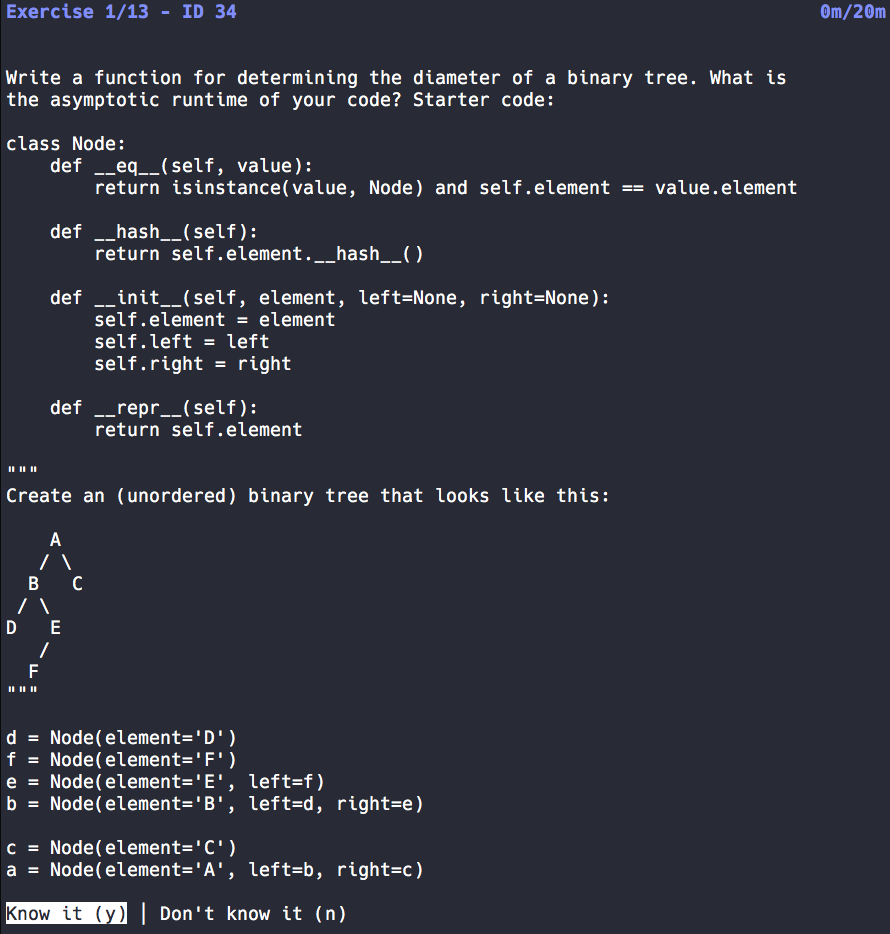
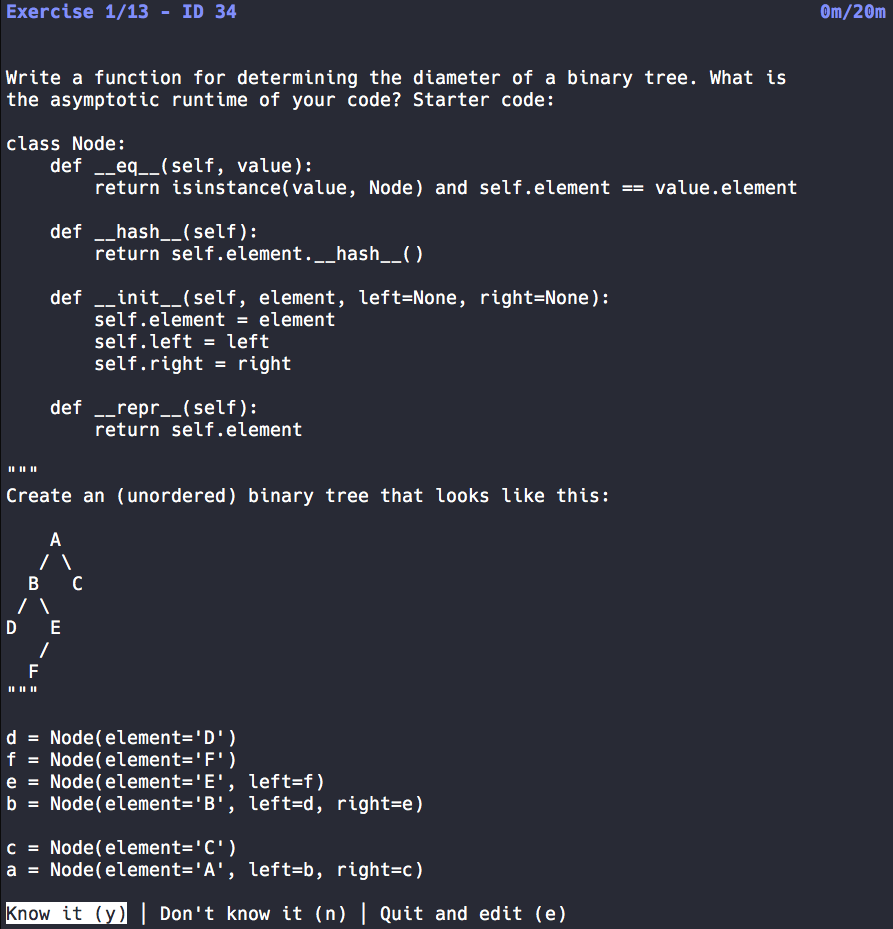
Add simple 'quit and edit' feature, update UI screenshot

diff --git a/src/main.rs b/src/main.rs
@@ -468,6 +468,7 @@ fn review_command(time_box_minutes: Option<i64>) {
         let options = [
             HorizontalMenuOption::new("Know it", 'y'),
             HorizontalMenuOption::new("Don't know it", 'n'),
+            HorizontalMenuOption::new("Quit and edit", 'e'),
         ];
 
         match horizontal_menu_select(&options) {
@@ -475,14 +476,33 @@ fn review_command(time_box_minutes: Option<i64>) {
                 Some(selected_index) => {
                     if selected_index == 0 {
                         confirm_exercise_answer(exercise, &service);
-                    } else {
+                    } else if selected_index == 1 {
                         print!("\n\n");
                         print_labeled_field("Reference", &exercise.reference_answer);
                         print_labeled_field("Source", &exercise.source);
 
                         exercise.update_repetition_interval(false);
                         if let Err(e) = exercise.update(&service) {
-                            eprintln!("Error saving exercise: {}", e);
+                            eprintln!("\n\nError saving exercise: {}", e);
+                        }
+                    } else {
+                        // quit and edit
+                        if !&exercise.id.is_some() {
+                            eprintln!("\n\nExercise has no ID, can't export!");
+                            std::process::exit(1);
+                        }
+
+                        let output_name  = format!("edited_exercise_{}.yaml", &exercise.id.unwrap());
+                        let output_path = Path::new(&output_name[..]);
+                        match &exercise.yaml_export(output_path) {
+                            Ok(_) => { 
+                                println!("\n\nExported exercise to file '{}' for editing. Exiting.", output_path.display());
+                                std::process::exit(0);
+                            },
+                            Err(e) => {
+                                eprintln!("\n\nError exporting exercise: {}", e);
+                                std::process::exit(1);
+                            }
                         }
                     }
                     print_next_exercise_input();

diff --git a/README.md b/README.md
@@ -106,6 +106,19 @@ I hope you find this application useful. Please <a
 href="https://github.com/fearofcode/arete">file an issue</a> if you have any
 questions or problems.
 
+## Missing and awkward features
+
+Since Arete is intended to be simple and command-line only, editing is
+slightly awkward. You export a file to a YAML file, make edits, then import
+it in. It's not great, but it works and is pretty simple. It has the very
+nice benefit of letting you edit in your favorite editor! You can export an
+exercise to edit while reviewing by selecting `Quit and edit` or invoke the
+application with `arete edit <id> <output_path>`.
+
+Deletion is not currently supported. I haven't needed to delete an exercise
+yet. As a workaround, you should be able to just delete it yourself in
+PostgreSQL directly.
+
 ## Installation
 
 ```bash
